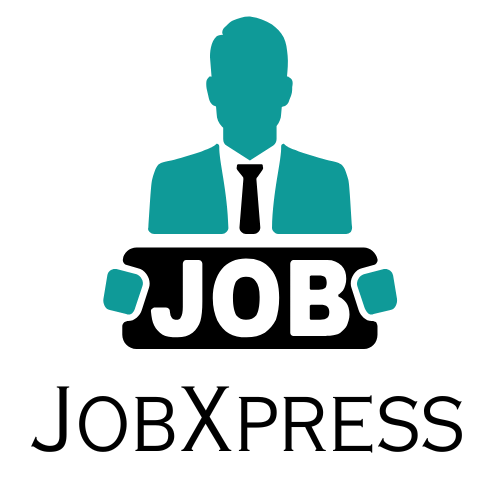
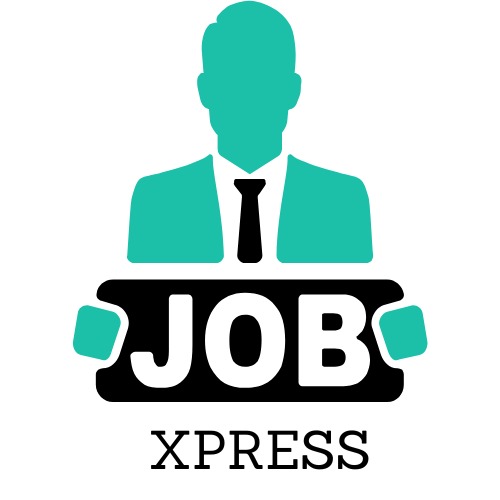
changes

Changed region(s): [[0.06, 0.0, 0.93, 0.96]]

diff --git a/FRONTEND/src/components/Home/HowItWorks.jsx b/FRONTEND/src/components/Home/HowItWorks.jsx
@@ -8,30 +8,27 @@ const HowItWorks = () => {
     <>
       <div className="howitworks">
         <div className="container">
-          <h3>How JobZee Works</h3>
+          <h3>How JobXpress Works</h3>
           <div className="banner">
             <div className="card">
               <FaUserPlus />
               <p>Create Account</p>
               <p>
-                Lorem, ipsum dolor sit amet consectetur adipisicing elit.
-                Consequuntur, culpa.
+                Create account according to your role employer or job seeker.
               </p>
             </div>
             <div className="card">
               <MdFindInPage />
               <p>Find a Job/Post a Job</p>
               <p>
-                Lorem, ipsum dolor sit amet consectetur adipisicing elit.
-                Consequuntur, culpa.
+                Find your perfect job and post a job.
               </p>
             </div>
             <div className="card">
               <IoMdSend />
               <p>Apply For Job/Recruit Suitable Candidates</p>
               <p>
-                Lorem, ipsum dolor sit amet consectetur adipisicing elit.
-                Consequuntur, culpa.
+                Apply for the jobs with your resume posted by employer. 
               </p>
             </div>
           </div>

diff --git a/BACKEND/utils/jwtToken.js b/BACKEND/utils/jwtToken.js
@@ -1,22 +1,20 @@
 export const sendToken = (user, statusCode, res, message) => {
-  // Generate JWT Token using the getJWTToken method from the user model
+
   const token = user.getJWTToken();
 
-  // Ensure COOKIE_EXPIRE is in the correct format and calculate the cookie expiration time
   const options = {
-    expires: new Date(Date.now() + process.env.COOKIE_EXPIRE * 24 * 60 * 60 * 1000), // COOKIE_EXPIRE is in days and converted to milliseconds
+    expires: new Date(Date.now() + process.env.COOKIE_EXPIRE * 24 * 60 * 60 * 1000), 
     httpOnly: true, // Make sure the cookie is accessible only via HTTP requests for security
   };
   console.log(options);
   
 
-  // Send the token in a cookie and return the response with success message, user data, and the token
   res.status(statusCode)
-    .cookie("token", token, options) // Store token in cookie
+    .cookie("token", token, options) 
     .json({
       success: true,
       user,
       message,
-      token, // Include the token in the response body
+      token,
     });
 };

diff --git a/FRONTEND/src/components/Home/PopularCompanies.jsx b/FRONTEND/src/components/Home/PopularCompanies.jsx
@@ -7,21 +7,21 @@ const PopularCompanies = () => {
     {
       id: 1,
       title: "Microsoft",
-      location: "Street 10 Karachi, Pakistan",
+      location: "Redmond, Washington, United States",
       openPositions: 10,
       icon: <FaMicrosoft />,
     },
     {
       id: 2,
       title: "Tesla",
-      location: "Street 10 Karachi, Pakistan",
+      location: "Austin ,Texas, United States",
       openPositions: 5,
       icon: <SiTesla />,
     },
     {
       id: 3,
       title: "Apple",
-      location: "Street 10 Karachi, Pakistan",
+      location: "Cupertino, California, United States",
       openPositions: 20,
       icon: <FaApple />,
     },

diff --git a/FRONTEND/src/App.css b/FRONTEND/src/App.css
@@ -134,7 +134,7 @@ p {
 .authPage .container form .inputTag div svg {
   width: 10%;
   font-size: 1.5rem;
-  background: #2d5649;
+  background: rgb(28,192,169,1);
   height: 100%;
   padding: 8px;
   color: #fff;
@@ -146,7 +146,7 @@ p {
   margin-top: 25px;
   font-weight: 700;
   color: #fff;
-  background: #2d5649;
+  background: rgb(28,192,169,1);
   font-size: 1.2rem;
   border-radius: 7px;
 }
@@ -156,7 +156,7 @@ p {
   border: 1px solid #2d5649;
   margin-top: 25px;
   font-weight: 700;
-  color: #2d5649;
+  color: rgb(28,192,169,1);;
   font-size: 1.2rem;
   text-decoration: none;
   border-radius: 7px;

diff --git a/FRONTEND/src/components/Home/HeroSection.jsx b/FRONTEND/src/components/Home/HeroSection.jsx
@@ -36,9 +36,7 @@ const HeroSection = () => {
             <h1>Find a job that suits</h1>
             <h1>your interests and skills</h1>
             <p>
-              Lorem ipsum dolor sit amet consectetur adipisicing elit. Dolorem
-              voluptate repellat modi quidem aliquid eaque ducimus ipsa et,
-              facere mollitia!
+            A platform where job seekers and employers connect, post jobs, and manage applications easily
             </p>
           </div>
           <div className="image">

diff --git a/BACKEND/models/jobSchema.js b/BACKEND/models/jobSchema.js
@@ -11,7 +11,7 @@ const jobSchema = new mongoose.Schema({
     type: String,
     required: [true, "Please provide decription."],
     minLength: [30, "Description must contain at least 30 Characters!"],
-    maxLength: [500, "Description cannot exceed 500 Characters!"],
+    maxLength: [1000, "Description cannot exceed 500 Characters!"],
   },
   category: {
     type: String,

diff --git a/FRONTEND/src/components/Application/Application.jsx b/FRONTEND/src/components/Application/Application.jsx
@@ -32,7 +32,7 @@ const Application = () => {
     formData.append("coverLetter", coverLetter);
     formData.append("resume", resume);
     formData.append("jobId", id);
-
+console.log(formData)
     try {
       const { data } = await axios.post(
         "http://localhost:4000/api/v1/application/post",

diff --git a/FRONTEND/src/components/Job/MyJobs.jsx b/FRONTEND/src/components/Job/MyJobs.jsx
@@ -10,7 +10,6 @@ const MyJobs = () => {
   const [myJobs, setMyJobs] = useState([]);
   const [editingMode, setEditingMode] = useState(null);
   const { isAuthorized, user } = useContext(Context);
-
   const navigateTo = useNavigate();
   //Fetching all jobs
   useEffect(() => {

diff --git a/FRONTEND/src/components/Auth/Login.jsx b/FRONTEND/src/components/Auth/Login.jsx
@@ -92,7 +92,7 @@ const Login = () => {
           </form>
         </div>
         <div className="banner">
-          <img src="/login.png" alt="login" />
+          <img src="/logintry.png" alt="login" />
         </div>
       </section>
     </>
